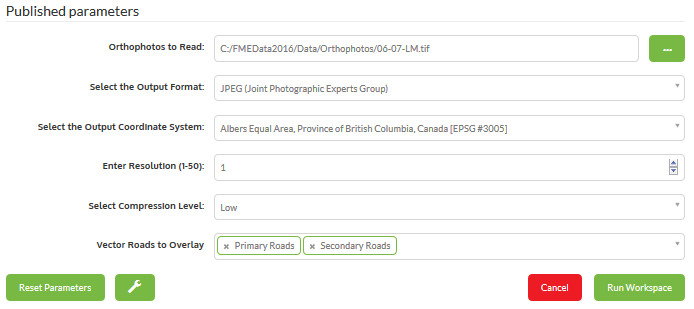
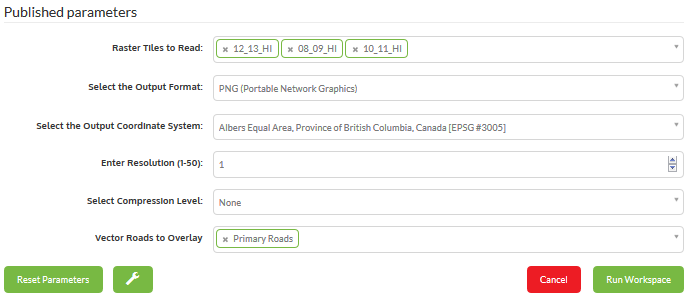
Fixes to ch4 exercises

diff --git a/ServerAuthoring3SelfServe/Exercise4.md b/ServerAuthoring3SelfServe/Exercise4.md
@@ -151,7 +151,7 @@ So, under the Display Name, enter values to match as follows:
 <tr><td>Other Roads</td><td>Other</td></tr>
 </table>
 
-The list will sort itself and look like this:
+The list will sort itself by display name and look like this:
 
 ![](./Images/Img3.58.Ex4.EditingFTTR2.png)
 
@@ -176,24 +176,42 @@ Check that the output includes whatever roads you selected.
 
 Locate and delete the following published parameters:
 
-- FEATURE_TYPES
+- SourceDataset_GEOTIFF
 - SourceDataset_DGNV8
 - DestDataset_JPEG
 - DestDataset_GENERIC
-
-Optionally you can now edit the parameter SourceDataset_GEOTIFF and change the prompt to "Orthophotos to Read".
 
 Finally, let's change the order of parameters. You can do this by dragging one above the other in the Navigator window. So do this and put the parameters in the order that seems best to you:
 
 ![](./Images/Img3.61.Ex4.SortedUserParameters.png) 
 
+
+<br>**8) Raster User Parameters**
+<br>Now let's do something with the source raster. We want the user to be able to select the files to read, without having to upload them. Locate the Reader in the Navigator window and double-click the Source GeoTIFF File(s) parameter. When prompted, select all of the GeoTIFF files in the Orthophotos folder.
+
+![](./Images/Img3.65.Ex4.RasterSelectAllDatasets.png)
+
+This would normally mean that all files would get read into the translation; but the Feature Types to Read parameter will let the user actually choose which ones to read. We do, however, need to make some edits.
+
+Open the definition of the GeoTIFF Feature Types to Read parameter. Click the option for a Fixed List. To list all of the available tiles select List &gt; Add From Current Dataset and select all the files.
+
+Finally change the prompt to something sensible like "Raster Tiles to Read".
+
+![](./Images/Img3.64.Ex4.RasterFeatureTypesToRead.png)
+
 Now run the workspace again to check on our improved parameters dialog.
 
 
-<br>**8) Publish to FME Server**
-<br>Save the workspace and publish it to FME Server. Remember to make sure the Data Download service is using the "Output [GENERIC]" writer.
+<br>**9) Publish to FME Server**
+<br>Save the workspace and publish it to FME Server. There are two things to note.
 
-Run the workspace, taking time to admire the new, cleaner set of parameters that are available:
+Firstly, because we removed the Source Dataset parameters FME will suggest we upload the data. If your data is on the same computer as FME Server (or on a path otherwise accessible to the Server), then you don't need to do this and can uncheck that box:
+
+![](./Images/Img3.63.Ex4.PublishToServerNoUpload.png)
+
+Secondly, remember to make sure the Data Download service is using the "Output [GENERIC]" writer.
+
+In the FME Server web interface, run the workspace, taking time to admire the new, cleaner set of parameters that are available:
 
 ![](./Images/Img3.62.Ex4.NewParametersOnServer.png)
 

diff --git a/ServerAuthoring3SelfServe/Exercise1.md b/ServerAuthoring3SelfServe/Exercise1.md
@@ -90,6 +90,11 @@ If you have lots of experience with FME Workbench - <strong>and if your instruct
 </tr>
 
 <tr>
+<td style="font-weight: bold">Reader Parameters</td>
+<td style="">Feature Type Name(s): From File Name(s)</td>
+</tr>
+
+<tr>
 <td style="font-weight: bold">Workflow Options</td>
 <td style="">Single Merged Feature Type</td>
 </tr>
@@ -97,6 +102,8 @@ If you have lots of experience with FME Workbench - <strong>and if your instruct
 </table>
 
 It's important to use the Single Merged Feature Type option because there are many source tiles of data, and we may want to read any of them without having to add them as individual feature types.
+
+The Feature Type Name parameter is important because it will help us later allowing the user to select which layers to read.
 
 
 <br>**2) Add Writer**
